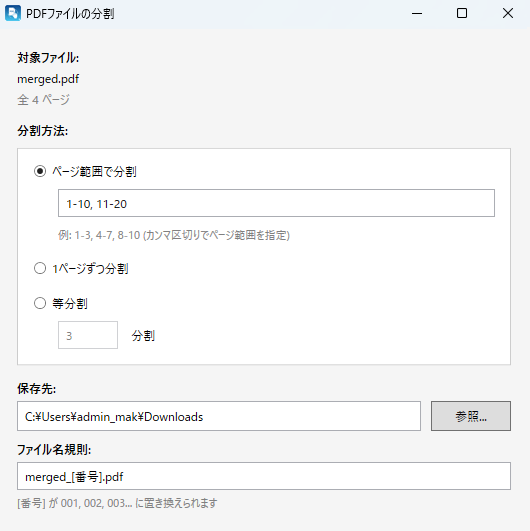
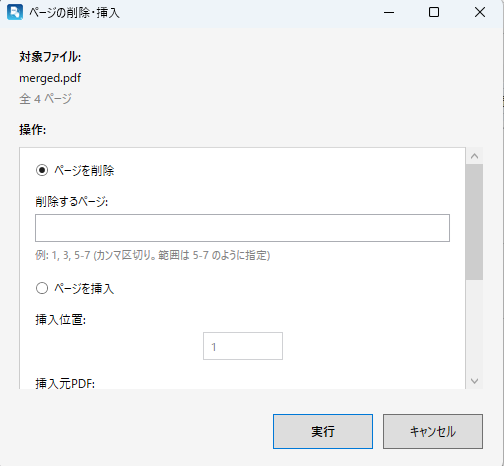
pdfHandler: ダウンロードを GitHub releases/latest へ、page-operations 画像差し替え

diff --git a/pdfhandler.html b/pdfhandler.html
@@ -110,7 +110,7 @@
               <h3 class="screenshot-title">ページ編集</h3>
               <p class="screenshot-desc">ページ削除・挿入、挿入元 PDF、出力先を指定</p>
             </div>
-            <img src="assets/pdfhandler/page-operations.png" alt="pdfHandler ページ編集ダイアログ" width="530" height="531">
+            <img src="assets/pdfhandler/page-operations.png" alt="pdfHandler ページ編集ダイアログ" width="504" height="466">
           </div>
           <div class="screenshot-item">
             <div class="screenshot-caption">
@@ -127,7 +127,13 @@
     <section class="section download-section">
       <div class="container">
         <h2>ダウンロード</h2>
-        <p class="download-intro">Windows 版の公開準備を進めています。リリースページとダウンロードリンクは準備が整い次第ご案内します。</p>
+        <p class="download-intro">GitHub の最新リリースから Windows 版インストーラ（setup.exe）をダウンロードしてください。</p>
+        <div class="download-buttons">
+          <a href="https://github.com/6EFB0D/pdf-handler/releases/latest" class="cta-button cta-button-primary">最新リリースを開く</a>
+        </div>
+        <div class="platform-links">
+          <a href="https://github.com/6EFB0D/pdf-handler/releases/latest" class="platform-button">Windows (setup.exe)</a>
+        </div>
       </div>
     </section>
 
